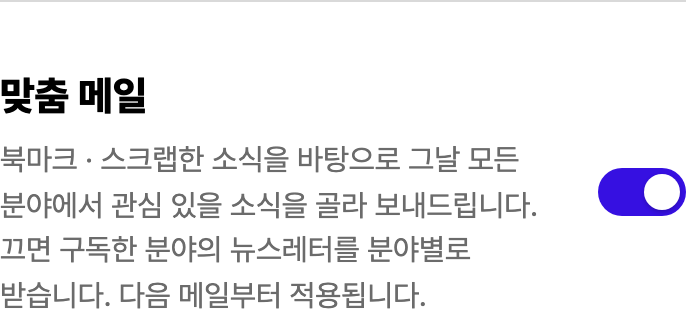
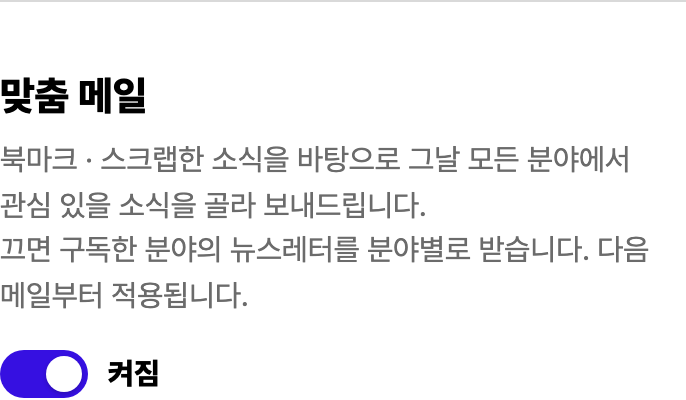
style: 맞춤 메일 스위치를 설명 옆이 아니라 아래 별도 줄로 (켜짐 · 꺼짐 글자와 함께) · 스크린샷 다시

Changed region(s): [[0.0, 0.1875, 0.9184, 0.5625], [0.0, 0.5, 1.0, 0.8438], [0.0, 0.875, 0.6122, 1.0]]

diff --git a/apps/web/src/app/(protected)/mypage/_components/settings/PersonalMail.tsx b/apps/web/src/app/(protected)/mypage/_components/settings/PersonalMail.tsx
@@ -47,34 +47,39 @@ export default function PersonalMail() {
 	return (
 		<StyledPersonalMail>
 			<div className="head">
-				<div>
-					<Title size="extraSmall" weight="bold" as="h2">
-						맞춤 메일
-					</Title>
-					<Text size="small" color="subText">
-						북마크 · 스크랩한 소식을 바탕으로 그날 모든 분야에서 관심 있을 소식을 골라 보내드립니다.
-						<br />
-						끄면 구독한 분야의 뉴스레터를 분야별로 받습니다. 다음 메일부터 적용됩니다.
-						{user.isSubscribed === false && (
-							<>
-								<br />
-								지금은 구독이 멈춰 있어, 구독을 다시 시작하면 이 설정대로 보내드립니다.
-							</>
-						)}
-					</Text>
-				</div>
+				<Title size="extraSmall" weight="bold" as="h2">
+					맞춤 메일
+				</Title>
+				<Text size="small" color="subText">
+					북마크 · 스크랩한 소식을 바탕으로 그날 모든 분야에서 관심 있을 소식을 골라 보내드립니다.
+					<br />
+					끄면 구독한 분야의 뉴스레터를 분야별로 받습니다. 다음 메일부터 적용됩니다.
+					{user.isSubscribed === false && (
+						<>
+							<br />
+							지금은 구독이 멈춰 있어, 구독을 다시 시작하면 이 설정대로 보내드립니다.
+						</>
+					)}
+				</Text>
+			</div>
+			{/* 스위치는 설명 아래 따로 한 줄: 지금 상태를 글자로 함께 */}
+			<div className="control">
 				<Switch
 					checked={enabled}
 					label="맞춤 메일"
 					disabled={isPending || save.isPending}
 					onChange={(next) => save.mutate(next)}
 				/>
+				<span aria-hidden>{enabled ? '켜짐' : '꺼짐'}</span>
 			</div>
 		</StyledPersonalMail>
 	);
 }
 
 const StyledPersonalMail = styled.section`
+	display: flex;
+	flex-direction: column;
+	gap: 1rem;
 	margin-top: 4rem;
 	padding-top: 2rem;
 	border-top: 1px solid ${({ theme }) => theme.color.border};
@@ -82,14 +87,19 @@ const StyledPersonalMail = styled.section`
 
 	.head {
 		display: flex;
-		align-items: center;
-		justify-content: space-between;
-		gap: 1.5rem;
+		flex-direction: column;
+		gap: 0.375rem;
+	}
 
-		> div {
-			display: flex;
-			flex-direction: column;
-			gap: 0.375rem;
+	.control {
+		display: flex;
+		align-items: center;
+		gap: 0.625rem;
+
+		span {
+			font-size: ${({ theme }) => theme.fontSize.small};
+			font-weight: ${({ theme }) => theme.fontWeight.bold};
+			color: ${({ theme }) => theme.color.text};
 		}
 	}
 `;
